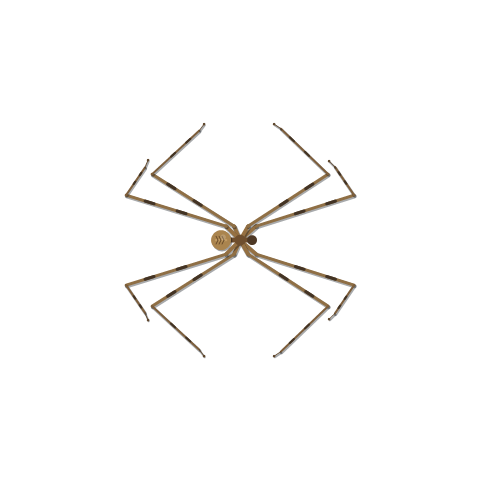
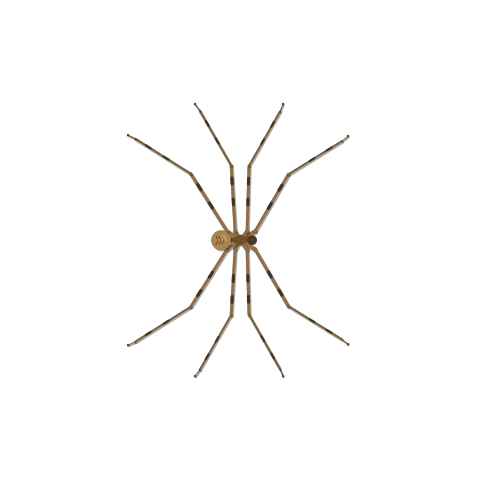
fix(legs): use a gently extended spider stance

diff --git a/src/main.cpp b/src/main.cpp
@@ -308,22 +308,25 @@ public:
         int row=i%4,side=i<4?-1:1;
         float forward=row<2?1.f:-1.f;
         V h=hip(i), f=home(i);
-        V knee=pos+bodyOffset+local((row==0?114.f:row==1?88.f:row==2?-88.f:-114.f)*scale,
-                                    (row==0||row==3?45.f:66.f)*side*scale);
-        V distal=unit(f-knee);float turn=side*.16f;
+        V shoulder=h+bodyLocal(forward*2*scale,side*4*scale);
+        V reach=unit(f-shoulder),outward{-reach.y,reach.x};
+        // Two long, gently bowed sections follow the body-to-foot direction.
+        // Preserve reach by spreading the contacts, not by pushing the knee
+        // past the foot into a permanent zigzag. Mirror front/rear and sides.
+        V knee=mix(shoulder,f,.48f)+outward*(side*forward*16*scale);
+        V distal=unit(f-knee);float turn=side*.10f;
         V toeDirection{distal.x*std::cos(turn)-distal.y*std::sin(turn),
                        distal.x*std::sin(turn)+distal.y*std::cos(turn)};
         // A short distal foot continues the shin with a slight mirrored bend.
         // Its joint stays before the contact, rather than overshooting the toe
         // and folding back into the conspicuous hook of the old silhouette.
         V ankle=f-toeDirection*(8*scale);
-        return {h,h+bodyLocal(forward*3*scale,side*9*scale),
-                knee,ankle,f};
+        return {h,shoulder,knee,ankle,f};
     }
     V home(int i) const {
         int side=i<4?-1:1, row=i%4;
-        static const float xs[]={89,34,-36,-92};
-        static const float ys[]={79,116,116,80};
+        static const float xs[]={108,43,-45,-112};
+        static const float ys[]={104,136,136,105};
         float stance=living?mind.stance:1.f;
         float x=xs[row]*scale,y=ys[row]*side*scale*stance;
         return pos+V{aimHeading.x*x-aimHeading.y*y,aimHeading.y*x+aimHeading.x*y};
@@ -485,8 +488,8 @@ public:
             l.from=living?l.joints[4]:l.foot;
             // The web in the reference supplies discrete anchor particles. Use an
             // invisible desktop contact lattice, biased toward the roaming target.
-            V desiredContact=home(candidate)+(walking?velocity*(fleeing||seekingFood?.34f:.58f):V{});
             bool precise=seekingFood && length(target-pos)<80*scale;
+            V desiredContact=home(candidate)+(walking?velocity*(fleeing||precise?.34f:.58f):V{});
             float scatter=precise?2.f:10.f;
             desiredContact=desiredContact+V{random(-scatter,scatter),random(-scatter,scatter)}*scale;
             float grid=(precise?2.f:10.f)*scale;
@@ -496,9 +499,13 @@ public:
                 l.goal.x=std::clamp(l.goal.x,work.left+inset,work.right-inset);
                 l.goal.y=std::clamp(l.goal.y,work.top+inset,work.bottom-inset);
             }
-            V reach=l.goal-pos;
+            // A long, nearly extended leg must land relative to where the body
+            // can be when the step finishes. Clamping against the current torso
+            // would prevent its front feet from ever stepping ahead.
+            V landingCenter=pos+(walking?velocity*(l.duration*.8f):V{});
+            V reach=l.goal-landingCenter;
             float maxReach=0; for(float bone:l.bones) maxReach+=bone;
-            if(length(reach)>maxReach*.94f) l.goal=pos+unit(reach)*(maxReach*.94f);
+            if(length(reach)>maxReach*.98f) l.goal=landingCenter+unit(reach)*(maxReach*.98f);
             l.phase=0; l.lift=0;
             stepCooldown=walking?random(.085f,.145f)*75.f/std::max(15.f,effectiveSpeed):.16f;
         }
@@ -746,6 +753,9 @@ int motionTest(Spider& s) {
     // Causality regression: stationary contacts must not follow a scripted path;
     // changing one contact must propagate to the free torso via constraints.
     for(int n=0;n<240;++n) s.solveLegs(1.f/120);
+    float standingFold=0;
+    for(const auto& leg:s.legs)
+        standingFold=std::max(standingFold,std::abs(CrawlPhysics::angle(leg.joints[2]-leg.joints[1],leg.joints[3]-leg.joints[2]))*180/PI);
     V fixedStart=s.pos;
     for(int n=0;n<240;++n) s.solveLegs(1.f/120);
     float fixedBodyDrift=length(s.pos-fixedStart);
@@ -757,7 +767,7 @@ int motionTest(Spider& s) {
     float contactPull=length(s.pos-pullStart);
     s.pos={900,700}; s.heading={1,0}; s.resetFeet();
     int steps=0, planted=0, maxSwing=0; float drift=0, maxReach=0, maxBoneError=0;
-    float bodyTravel=0;
+    float bodyTravel=0,maxGroundedFold=0,groundedFoldSum=0;int groundedFoldSamples=0;
     for(int frame=0;frame<3600;++frame) {
         if(frame==900) s.target={200,250};
         if(frame==1800) { s.speed=135; s.target={1500,1100}; }
@@ -773,6 +783,8 @@ int motionTest(Spider& s) {
             if(before[i].phase>=1 && l.phase<1) { ++steps; ++starts; }
             if(before[i].phase>=1 && l.phase>=1) {
                 drift=std::max(drift,length(l.foot-before[i].foot)); ++planted;
+                float fold=std::abs(CrawlPhysics::angle(l.joints[2]-l.joints[1],l.joints[3]-l.joints[2]))*180/PI;
+                maxGroundedFold=std::max(maxGroundedFold,fold);groundedFoldSum+=fold;++groundedFoldSamples;
             }
             maxReach=std::max(maxReach,length(l.foot-(s.pos+s.local((23-i%4*15)*s.scale,(i<4?-8.f:8.f)*s.scale))));
             if(!std::isfinite(l.foot.x)||!std::isfinite(l.foot.y)||starts>1) return 3;
@@ -794,18 +806,21 @@ int motionTest(Spider& s) {
           <<"\nPlanted foot checks: "<<planted<<"\nPlanted foot drift: "<<drift
           <<"\nMaximum hip-foot distance: "<<maxReach
           <<"\nMaximum four-segment bone error: "<<maxBoneError
+          <<"\nMaximum standing main-joint deflection (degrees): "<<standingFold
+          <<"\nMaximum grounded main-joint deflection (degrees): "<<maxGroundedFold
+          <<"\nMean grounded main-joint deflection (degrees): "<<groundedFoldSum/std::max(1,groundedFoldSamples)
           <<"\nBody drift with all contacts fixed: "<<fixedBodyDrift
           <<"\nBody displacement from moving one foot 30px: "<<contactPull
           <<"\nBody travel driven by foot contacts: "<<bodyTravel<<"\n";
     bool ok=steps>60 && maxSwing<=3 && planted>1000 && drift==0 && maxReach<180 && maxBoneError<2
-        && fixedBodyDrift<.1f && contactPull>.5f && bodyTravel>200;
+        && fixedBodyDrift<.1f && contactPull>.5f && bodyTravel>200 && standingFold<50 && maxGroundedFold<100;
     report<<(ok?"PASS":"FAIL")<<"\n";
     return ok?0:4;
 }
 int interactionTest(Spider& s) {
     s.living=false;
     s.rng.seed(123);
-    int cases=0,failures=0; float maxPinError=0,maxBoneError=0,minBodyMotion=100000,minFlail=100000;
+    int cases=0,failures=0; float maxPinError=0,maxBoneError=0,minBodyMotion=100000,minFlail=100000,minBodyResponse=100000;
     for(float scale:{.7f,1.f,1.3f}) for(int leg=0;leg<8;++leg) {
         s.scale=scale; s.pos={900,700}; s.heading={1,0}; s.resetFeet();
         s.elapsed=0; s.rest=0; s.follow=false;
@@ -827,6 +842,10 @@ int interactionTest(Spider& s) {
             }
         }
         minBodyMotion=std::min(minBodyMotion,length(s.pos-start)); minFlail=std::min(minFlail,flail);
+        // Longer natural legs absorb more drag by unfolding. Require a clear
+        // body response relative to the actual pointer excursion, not a fixed
+        // displacement tuned to the former short, heavily folded silhouette.
+        minBodyResponse=std::min(minBodyResponse,length(s.pos-start)/std::max(1.f,length(s.dragTarget-anchor)));
         s.dragVelocity={700,-150}; s.lastDragTime=GetTickCount64(); s.endGrab();
         for(int n=0;n<180;++n) s.advance(1.f/120);
         if(s.grabbed!=-1 || s.airborne>0 || !std::isfinite(s.pos.x)||!std::isfinite(s.pos.y)) ++failures;
@@ -838,12 +857,13 @@ int interactionTest(Spider& s) {
         for(int n=0;n<90;++n) s.advance(1.f/120);
         ++cases;
     }
-    bool ok=failures==0 && maxPinError<.01f && maxBoneError<5 && minBodyMotion>100 && minFlail>10;
+    bool ok=failures==0 && maxPinError<.01f && maxBoneError<5 && minBodyResponse>.2f && minFlail>10;
     std::ofstream report("interaction-test.txt");
     report<<"All 8 legs at 3 sizes, drag/flail/throw/land/stationary release\nCases: "<<cases
           <<"\nFailures: "<<failures<<"\nMaximum held toe error: "<<maxPinError
           <<"\nMaximum bone length error while dragging: "<<maxBoneError
           <<"\nMinimum body displacement: "<<minBodyMotion
+          <<"\nMinimum body-to-pointer displacement ratio: "<<minBodyResponse
           <<"\nMinimum free leg motion relative to torso: "<<minFlail<<"\n"<<(ok?"PASS":"FAIL")<<"\n";
     return ok?0:6;
 }

diff --git a/src/feeding_tests.h b/src/feeding_tests.h
@@ -49,12 +49,17 @@ int feedingTest(Spider& spider) {
         spider.cursorPrimed=false;spider.sensedCursorVelocity={};spider.hovered=-1;
         RecycleFoodView anchor;anchor.visible=true;anchor.token=L"mock-visible-row";anchor.name=L"mock.txt";
         anchor.window=reinterpret_cast<HWND>(1);anchor.point=point;anchor.area={200,100,1600,1200};
-        spider.food=anchor;spider.mind.init(spider.senses());FeedingCycle chewing;bool ready=false;float distance=10000;
+        spider.food=anchor;spider.mind.init(spider.senses());FeedingCycle chewing;bool ready=false;float distance=10000,maxChew=0;
+        int eatEntries=0;bool wasEating=false;
         for(int frame=0;frame<3000 && !ready;++frame) {
             spider.advance(1.f/120);distance=length(spider.pos-point);
+            bool eating=spider.mind.state==State::Eat;
+            if(eating&&!wasEating)++eatEntries;wasEating=eating;
             ready=chewing.advance(1.f/120,spider.mind.state==State::Eat && distance<=18*size,anchor);
+            maxChew=std::max(maxChew,chewing.chewing);
         }
-        out<<"Arrival scale="<<size<<" target="<<point.x<<","<<point.y<<" distance="<<distance<<"\n";
+        out<<"Arrival scale="<<size<<" target="<<point.x<<","<<point.y<<" distance="<<distance
+           <<" eat entries="<<eatEntries<<" longest chew="<<maxChew<<"\n";
         check(ready && distance<=18*size,"Physical body reaches the filename and stays close for a complete chew");
     }
     spider.food={};spider.scale=1;

diff --git a/src/behavior.h b/src/behavior.h
@@ -276,7 +276,9 @@ public:
             float edge=std::min(1.f,std::min(age,deadline-age)*3);
             envelope=std::max(0.f,edge); x=std::sin(age*7)*7*envelope; y=-side*(15+9*std::sin(age*5))*envelope;
         } else if(state==State::Eat && (leg==0 || leg==4)) {
-            envelope=std::min(1.f,age*2);x=(8+std::sin(age*12)*4)*envelope;y=-side*(12+std::sin(age*12)*5)*envelope;
+            // Small distal handling motions suit the longer, extended stance;
+            // a large forefoot sweep would rock the whole body off its meal.
+            envelope=std::min(1.f,age*2)*.4f;x=(8+std::sin(age*12)*4)*envelope;y=-side*(12+std::sin(age*12)*5)*envelope;
         }
         return {heading.x*x-heading.y*y,heading.y*x+heading.x*y-envelope*5};
     }

diff --git a/src/runtime_log.h b/src/runtime_log.h
@@ -66,7 +66,7 @@ public:
         wchar_t folder[MAX_PATH]{};
         if(SUCCEEDED(SHGetFolderPathW(nullptr,CSIDL_LOCAL_APPDATA,nullptr,0,folder))
            &&open(std::wstring(folder)+L"\\NeonSpider")) {
-            write("event=version value=0.3.0");
+            write("event=version value=0.3.1");
             SetUnhandledExceptionFilter(onException);
             std::set_terminate([]()noexcept{write("event=cpp_terminate");std::abort();});
         }

diff --git a/README.md b/README.md
@@ -40,6 +40,8 @@ in the tray menu. Use disposable files when trying this feature.
   planted contacts, alternating steps, and an inertial body. This is a stylized
   four-segment model, not a one-to-one anatomical model. The short distal foot
   continues the lower leg with a subtle bend instead of folding back into a hook.
+  A short root and two long main sections form a gently bent, fanned stance;
+  the knees follow the body-to-foot direction instead of a permanent zigzag.
 - **Natural regional colors by default.** A dark brown head/chest, a lighter
   patterned abdomen, and brown legs with dark bands. Enable rainbow cycling in
   the tray for synchronized changing colors; turning it off restores natural
@@ -174,8 +176,8 @@ fails or does not produce a report. For the manual arguments below, run
 
 | Argument | Coverage |
 | --- | --- |
-| `--motion-test` | Walking, planted feet, turn stability, contact-driven body movement |
-| `--interaction-test` | All eight legs at three sizes: drag, flail, throw, land |
+| `--motion-test` | Walking, planted feet, standing/grounded joint deflection, turn stability, contact-driven body movement |
+| `--interaction-test` | All eight legs at three sizes: drag, flail, throw, land; body response relative to pointer travel |
 | `--behavior-test` | Fear, curiosity, rest, memory, two-minute physical simulation |
 | `--feeding-test` | Mock feeding, interruption, filename approach, persistence; no real deletions |
 | `--i18n-test` | Both catalogs, state labels, locale fallback, preference serialization, panel previews |
@@ -237,6 +239,8 @@ Released under the [MIT License](LICENSE).
 
 - **用脚牵动身体行走**：四段关节、距离和角度约束、固定落脚点、交替换脚，身体有惯性。
   四段是简化的视觉模型，并非真实解剖的一一对应；末端足节缩短、顺势轻弯，不再反折成钩子。
+  腿根较短、两段主体拉长，以轻微弯折向外展开；主关节沿身体到脚尖的方向排列，去掉固定的
+  “之”字折叠站姿。
 - **默认自然分区配色**：头胸部深褐色，腹部为较浅的暖褐色并带细纹，腿部有深色环带。
   托盘可开启彩虹循环，使全身同步变色；关闭后恢复自然色。每次启动默认使用自然配色。
 - **抓脚、挣扎和甩动**：左键按住任意脚尖，身体悬挂，其他七条腿自由挣扎。轻放或甩出后，
@@ -347,8 +351,8 @@ pwsh -NoProfile -File ./test.ps1 -Suite startup
 
 | 参数 | 验证内容 |
 | --- | --- |
-| `--motion-test` | 步态、脚点固定、转向稳定、脚点驱动身体 |
-| `--interaction-test` | 八条腿 × 三种大小：拖拽、挣扎、甩动和落地 |
+| `--motion-test` | 步态、脚点固定、站立/落地关节转折、转向稳定、脚点驱动身体 |
+| `--interaction-test` | 八条腿 × 三种大小：拖拽、挣扎、甩动和落地；身体相对鼠标行程的响应 |
 | `--behavior-test` | 警觉、好奇、休息、记忆和两分钟真实物理模拟 |
 | `--feeding-test` | 模拟进食、中断、靠近文件名和存档；不删除真实文件 |
 | `--i18n-test` | 中英文文案、行为标签、语言回退、偏好序列化和面板预览 |
